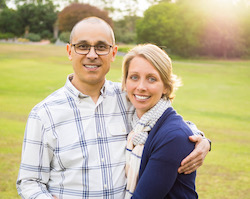
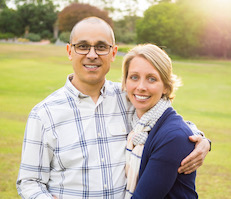
Rounded leadership pictures

diff --git a/src/components/about/LeadershipTeam.js b/src/components/about/LeadershipTeam.js
@@ -4,7 +4,7 @@ const imgStyleRight = {
   borderRadius: '50%',
   float: 'right',
   border: '3px solid #dcd4c5',
-  height: '186px',
+  height: '215px',
   width: '249px',
   marginLeft: 20,
   marginBottom: 10,
